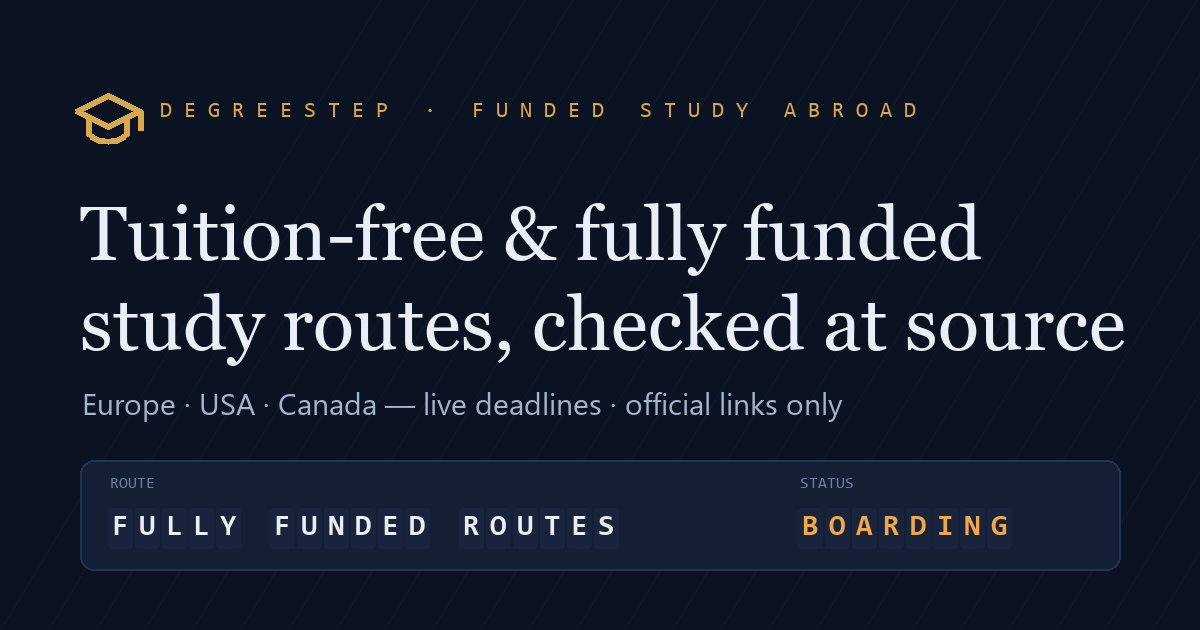
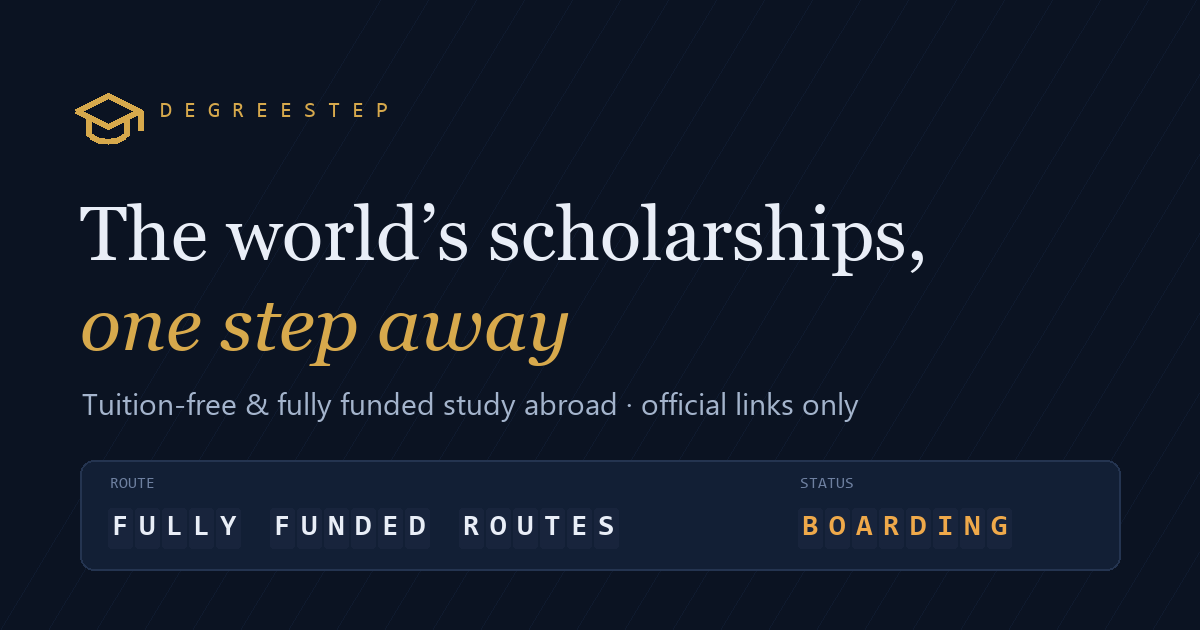
Move to degreestep.com and add the slogan
The domain is verified on the Jisco1 account and set as the Pages custom
domain, so base_url now points at https://degreestep.com. That address is
used for canonical links, the sitemap, share links and the 404 page. The
old github.io address forwards there.

The slogan "The world's scholarships, one step away" sits under the name
in the hero, becomes the site tagline, and is the headline of the social
preview picture.

diff --git a/src/assets/app.css b/src/assets/app.css
@@ -61,6 +61,7 @@ body.loaded h1 .l { transform: none; }
 .sub { max-width: 640px; margin: 18px auto 0; color: var(--dim); font-size: 15px; line-height: 1.6;
        opacity: 0; transform: translateY(12px); transition: opacity .8s ease 1.05s, transform .8s ease 1.05s; }
 body.loaded .sub { opacity: 1; transform: none; }
+.sub.slogan { font-family: var(--serif); font-style: italic; font-size: clamp(18px, 2.4vw, 23px); color: var(--dim); margin-top: 10px; }
 .stats { display: flex; justify-content: center; gap: clamp(20px, 6vw, 56px); margin-top: 34px;
          opacity: 0; transform: translateY(12px); transition: opacity .8s ease 1.2s, transform .8s ease 1.2s; }
 body.loaded .stats { opacity: 1; transform: none; }
@@ -418,6 +419,7 @@ body.premium .lockdot { display: none; }
   .eyebrow { font-size: 10px; }
   body.loaded .eyebrow { letter-spacing: .18em; }
   .sub { font-size: 14.5px; margin-top: 14px; }
+  .sub.slogan { font-size: 17px; margin-top: 8px; }
   .stats { display: grid; grid-template-columns: repeat(2, minmax(0, 1fr)); gap: 16px 12px; max-width: 320px; margin: 24px auto 0; }
   .stat span { letter-spacing: .16em; }
   .heronav { flex-wrap: wrap; gap: 8px; margin-top: 20px; }

diff --git a/src/home.html b/src/home.html
@@ -21,6 +21,7 @@
     </div>
     <div class="eyebrow">Funded study abroad · Europe · USA · Canada</div>
     <h1 id="title">DegreeStep</h1>
+    <p class="sub slogan">The world’s scholarships, one step away</p>
     <div class="stats">
       <div class="stat"><b data-count id="statRoutes">{{N_ROUTES}}</b><span>Funded routes</span></div>
       <div class="stat"><b data-count id="statCountries">{{N_COUNTRIES}}</b><span>Countries</span></div>

diff --git a/tools/make_icons.py b/tools/make_icons.py
@@ -58,10 +58,10 @@ for i in range(0, W, 48):  # faint route lines
     d.line([(i, H), (i + 380, 0)], fill="#0F1A2E", width=1)
 mono_s, mono_m, serif_l = font("consola.ttf", 22), font("consolab.ttf", 30), font("georgia.ttf", 76)
 mortarboard(d, 108, 118, 3.2, BRASS, 6)
-d.text((160, 100), "D E G R E E S T E P   ·   F U N D E D   S T U D Y   A B R O A D", font=mono_s, fill=BRASS)
-d.text((80, 190), "Tuition-free & fully funded", font=serif_l, fill=TEXT)
-d.text((80, 280), "study routes, checked at source", font=serif_l, fill=TEXT)
-d.text((82, 382), "Europe · USA · Canada — live deadlines · official links only", font=font("segoeui.ttf", 30), fill=DIM)
+d.text((160, 100), "D E G R E E S T E P", font=mono_s, fill=BRASS)
+d.text((80, 190), "The world\u2019s scholarships,", font=serif_l, fill=TEXT)
+d.text((80, 280), "one step away", font=font("georgiai.ttf", 76), fill=BRASS)
+d.text((82, 382), "Tuition-free & fully funded study abroad · official links only", font=font("segoeui.ttf", 30), fill=DIM)
 # a departures-board strip
 y0 = 460
 d.rounded_rectangle([80, y0, W - 80, y0 + 110], radius=14, fill=CARD, outline=LINE, width=2)
